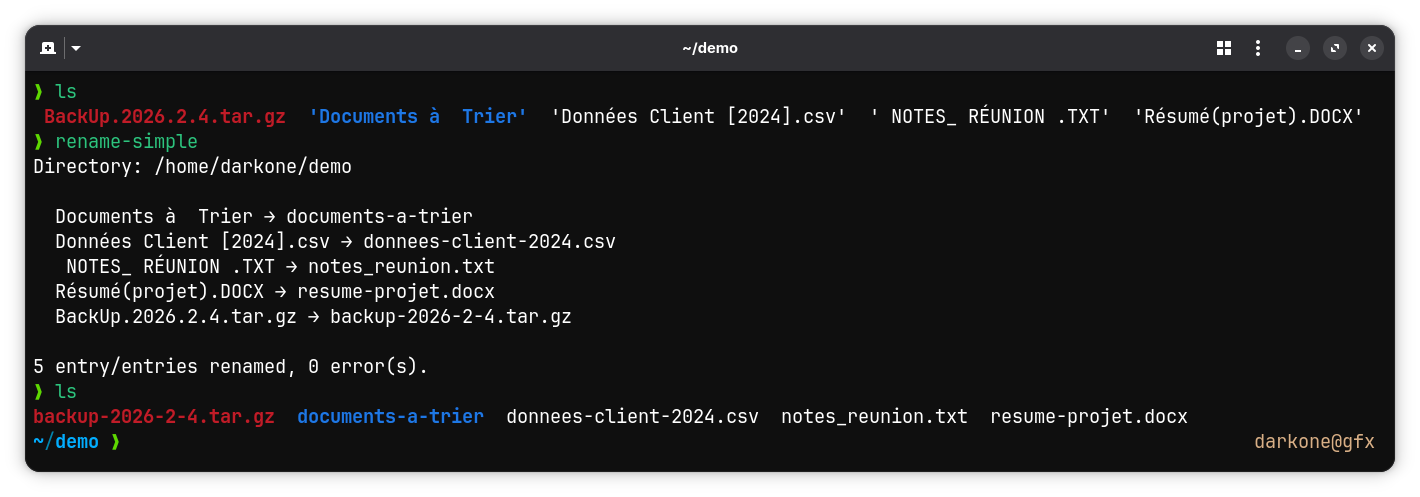
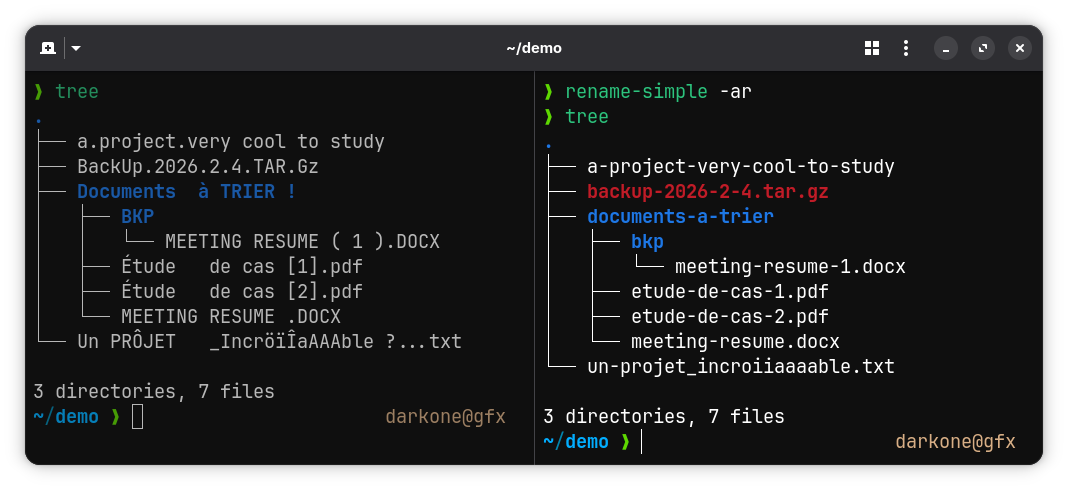
Readme + image update

diff --git a/README.md b/README.md
@@ -18,7 +18,7 @@ A small Rust CLI tool that renames files and directories to clean, ASCII-safe sl
 - Strips leading and trailing `-` / `_` before the extension
 - Preserves known compound extensions (`.tar.gz`, `.tar.bz2`, `.tar.xz`, `.tar.zst`)
 - Keeps extensions separate only when they are ASCII alphanumeric and ≤10 characters
-  (e.g. `.tét` → absorbed as `-tet`; `.cuicuicuicui` (12 chars) → absorbed as `-cuicuicuicui`)
+  (e.g. `.tét` → absorbed as `-tet`; `.abcdefghijkl` (12 chars) → absorbed as `-abcdefghijkl`)
 - Skips hidden files (`.gitignore`, `.DS_Store`…) and flags naming conflicts
 
 ## Installation